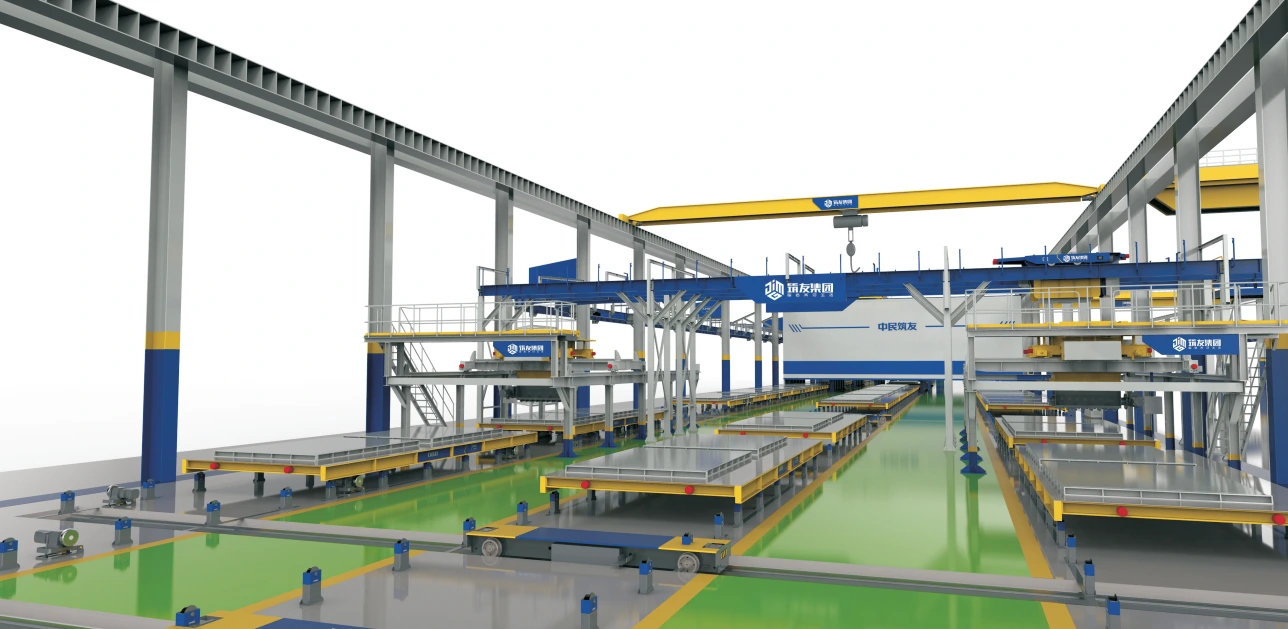
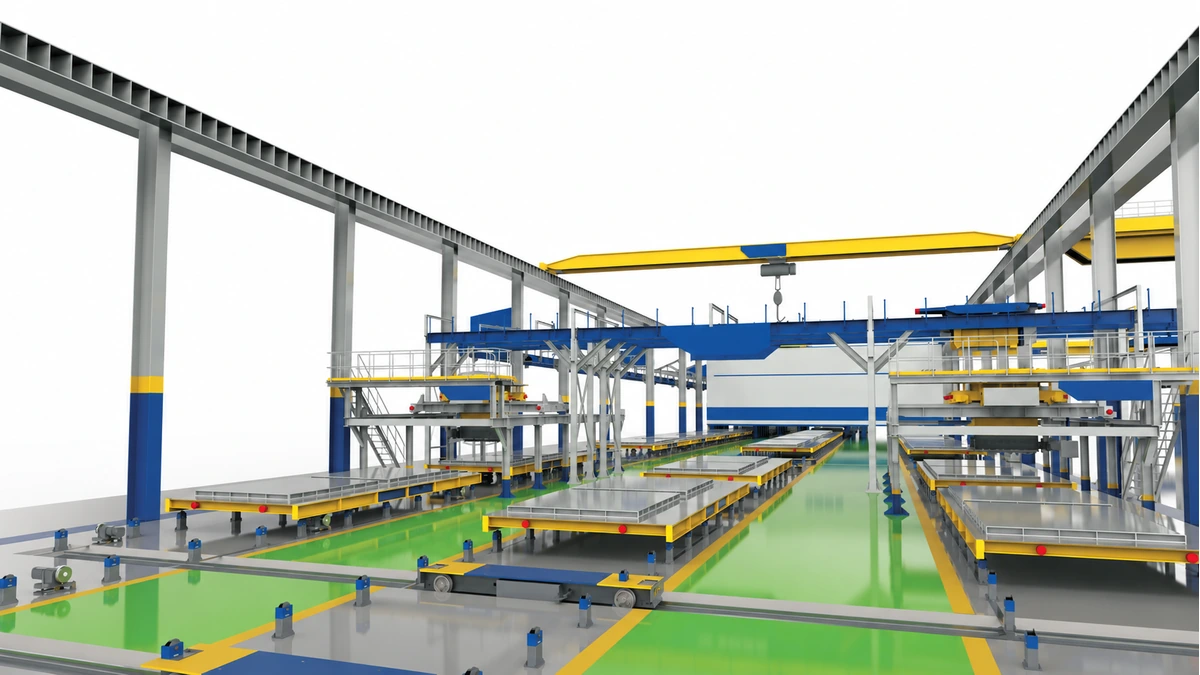
Remove production image branding and unify image dimensions

diff --git a/site/assets/building-precast.css b/site/assets/building-precast.css
@@ -38,3 +38,5 @@
 @media(max-width:600px){.pc-direct>a[href^="mailto:"]{display:none}.pc-enquiry{padding-block:18px}.pc-form-card{padding:16px}.pc-enquiry-copy>p{font-size:13px}.pc-form-card label{font-size:12px}.pc-form-card fieldset{gap:9px}}
 
 @media(min-width:851px) and (max-width:1100px){.pc-header-inner{gap:16px}.pc-navigation{gap:12px}.pc-navigation>a{white-space:nowrap}}
+
+.pc-line-image.pc-image-fit{height:auto;aspect-ratio:16/9;padding:0;background:#fff}.pc-line-image.pc-image-fit>img{display:block;border-radius:0;object-fit:contain}

diff --git a/docs/building-precast-plant.md b/docs/building-precast-plant.md
@@ -31,7 +31,7 @@ The user confirmed strategic-cooperation authorization in the source PRD. Photog
 
 Public copy follows the user’s approved REALJET promotional branding and does not mention the authorized supplier or technology partner. The authorization and source provenance above are retained for internal asset records only. Factory photos illustrate technical arrangements without invented delivery years or measured performance. The digital block is a readable integration concept, not a claimed software deployment screenshot. Replace PDF-derived images with approved high-resolution originals when available.
 
-The production-line cards follow the source names and display order: dual-circulation, prestressed composite slab, long-line casting table. The three user-supplied images replace the earlier extracted card assets, retain their full composition and use WebP delivery. The slab card describes the dedicated prestressed composite slab line rather than a generic slab configuration.
+The production-line cards follow the source names and display order: dual-circulation, prestressed composite slab, long-line casting table. The three user-supplied images replace the earlier extracted card assets and use WebP delivery. On 2026-10-13, the built-in imagegen tool removed in-image logos and company names and standardized the canvases; delivery assets are uniformly 1200 × 675 pixels, with matching 16:9 card frames. Editing brief: remove all brand markings, preserve equipment, plant structures, colors, perspective and composition; no replacement logos or text. These cleaned promotional renders are derived illustrations, not unedited source images. The slab card describes the dedicated prestressed composite slab line rather than a generic slab configuration.
 
 ## Enquiry behavior
 
